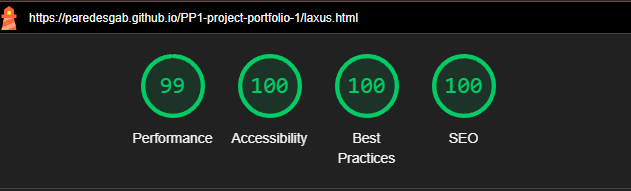
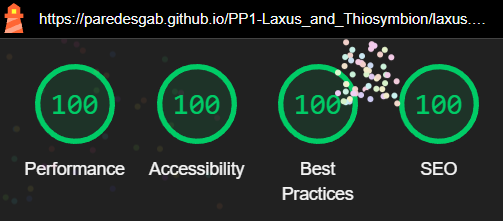
ReadMe: change lighthouse screenshots containing new repository name

diff --git a/README.md b/README.md
@@ -531,7 +531,7 @@ The website was tested on the following browsers:
 
 The website has been deployed to GitHub pages following these steps:
 
-1. In the GitHub repository for the Laxus & Thiosymbion page [GitHub repository](https://github.com/ParedesGab/PP1-project-portfolio-1), select the "Settings" tab.
+1. In the GitHub repository for the Laxus & Thiosymbion page [GitHub repository](https://paredesgab.github.io/PP1-Laxus_and_Thiosymbion/), select the "Settings" tab.
 
 2. Click on "Pages" from the field "Code and automation" (on the left). Here select the below settings:
     - Source: deploy from a branch.
@@ -542,7 +542,7 @@ The website has been deployed to GitHub pages following these steps:
 
 4. On the right side of the page, a "Deployments" section has been activated indicating a successful deployment. 
 
-5. The live link can be accessed in this [here](https://paredesgab.github.io/PP1-project-portfolio-1/).
+5. The live link can be accessed in this [here](https://paredesgab.github.io/PP1-Laxus_and_Thiosymbion/).
 
 ---
 ## Credits 
